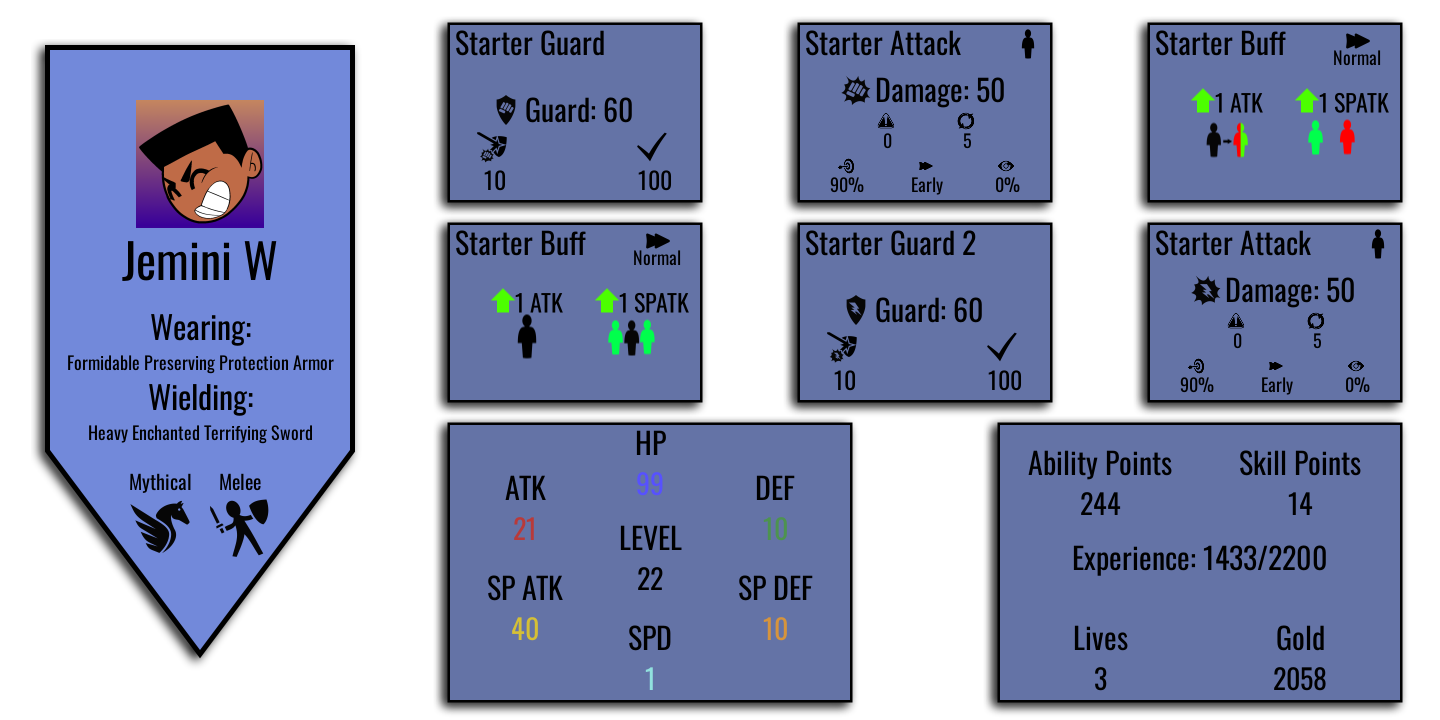
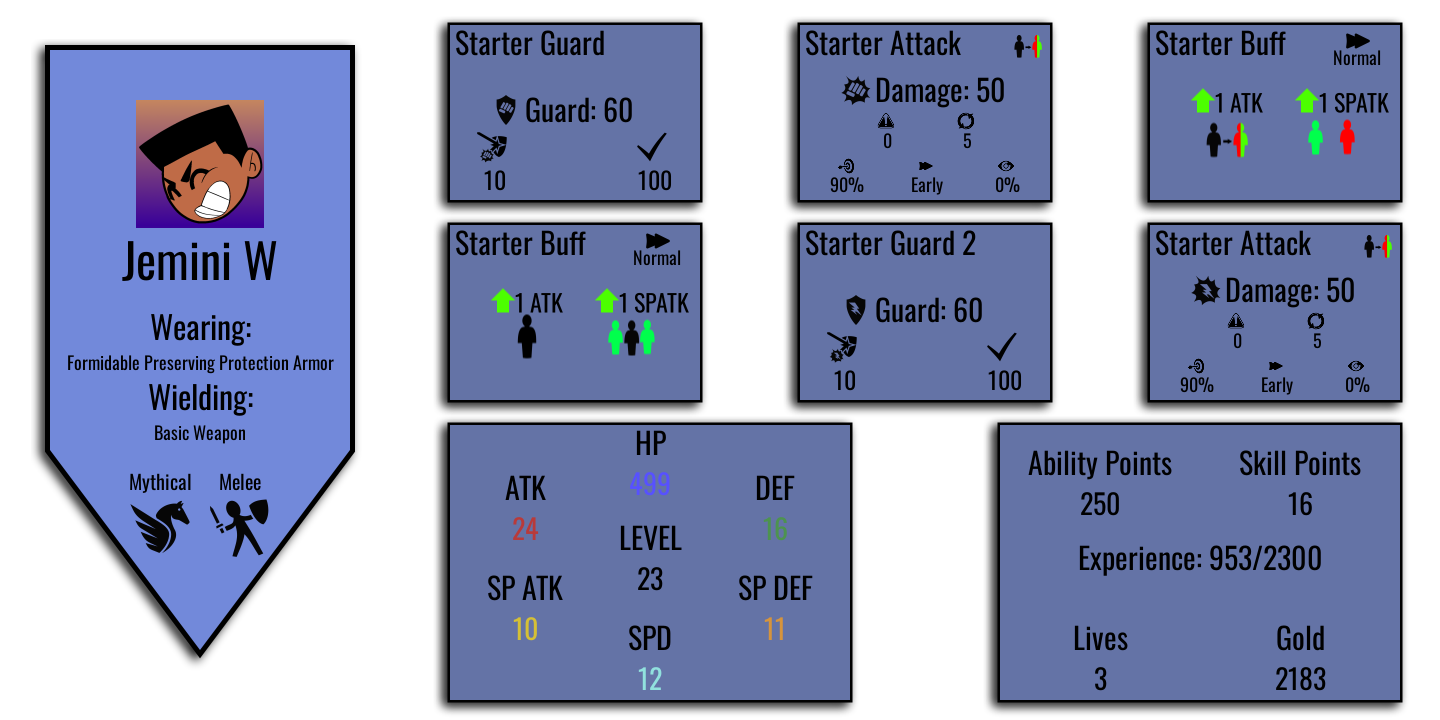
Fixed equipment stat bug for dungeons

diff --git a/profileCardCreator.js b/profileCardCreator.js
@@ -1,4 +1,5 @@
 const { createCanvas, registerFont, loadImage } = require('canvas')
+const { clone } = require('./tools.js')
 const data = {raceIndex, combatStyleIndex} = require('./data.json')
 registerFont('./fonts/Oswald-VariableFont_wght.ttf', { family: 'Oswald Light' })
 
@@ -359,37 +360,7 @@ function makeCard(player,avatar,callback){
         
         ctx.font = '30px "Oswald Light"'
         ctx.textAlign = "center"
-        
-        
-        if(player.inventory){
-            if(player.gear){
-                let fGear = player.inventory[player.gear]
-                for(s in fGear.stats){
-                    if(s == "hp"){
-                        player.stats[s] += fGear.stats[s] * 2
-                    } else {
-                        player.stats[s] += fGear.stats[s] 
-                    }
-                    if(player.stats[s] < 1){
-                        player.stats[s] = 1
-                    }
-                }
-            }
-            if(player.weapon){
-                let fWeapon = player.inventory[player.weapon]
-                for(s in fWeapon.stats){
-                    if(s == "hp"){
-                        player.stats[s] += fWeapon.stats[s] * 2
-                    } else {
-                        player.stats[s] += fWeapon.stats[s] 
-                    }
-                    if(player.stats[s] < 1){
-                        player.stats[s] = 1
-                    }
-                }
-            }
-        }
-
+    
         ctx.fillText("HP",650,455)
         ctx.fillText("ATK",525,500)
         ctx.fillText("SP ATK",525,600)
@@ -398,20 +369,50 @@ function makeCard(player,avatar,callback){
         ctx.fillText("SPD",650,650)
         ctx.fillText("LEVEL",650,550)
         
-        
+        let playerStats = clone(player.stats)
+
+        if(player.inventory){
+            if(player.gear != undefined){
+                let fGear = player.inventory[player.gear]
+                for(s in fGear.stats){
+                    if(s == "hp"){
+                        playerStats[s] += fGear.stats[s] * 2
+                    } else {
+                        playerStats[s] += fGear.stats[s] 
+                    }
+                    if(playerStats[s] < 1){
+                        playerStats[s] = 1
+                    }
+                }
+            }
+            if(player.weapon != undefined){
+                let fWeapon = player.inventory[player.weapon]
+                for(s in fWeapon.stats){
+                    if(s == "hp"){
+                        playerStats[s] += fWeapon.stats[s] * 2
+                    } else {
+                        playerStats[s] += fWeapon.stats[s] 
+                    }
+                    if(playerStats[s] < 1){
+                        playerStats[s] = 1
+                    }
+                }
+            }
+        }
+
         ctx.font = '28px "Oswald Light"'
         ctx.fillStyle = "#5751FF"
-        ctx.fillText(player.stats.hp,650,495)
+        ctx.fillText(playerStats.hp,650,495)
         ctx.fillStyle = "#B83A3A"
-        ctx.fillText(player.stats.atk,525,540)
+        ctx.fillText(playerStats.atk,525,540)
         ctx.fillStyle = "#D5C035"
-        ctx.fillText(player.stats.spatk,525,640)
+        ctx.fillText(playerStats.spatk,525,640)
         ctx.fillStyle = "#4D934F"
-        ctx.fillText(player.stats.def,775,540)
+        ctx.fillText(playerStats.def,775,540)
         ctx.fillStyle = "#D6943C"
-        ctx.fillText(player.stats.spdef,775,640)
+        ctx.fillText(playerStats.spdef,775,640)
         ctx.fillStyle = "#91E1DE"
-        ctx.fillText(player.stats.spd,650,690)
+        ctx.fillText(playerStats.spd,650,690)
         ctx.fillStyle = "#000000"
         ctx.fillText(player.level,650,590)
         

diff --git a/components/triggerDungeon.js b/components/triggerDungeon.js
@@ -60,7 +60,7 @@ module.exports = {
                 }
             }
 
-            if(session.session_data.player.gear){
+            if(session.session_data.player.gear != undefined){
                 let fGear = session.session_data.player.inventory[session.session_data.player.gear]
                 if(fGear.stats.hp){
                     newSession.session_data.rankStats.currentHP += fGear.stats.hp * 2
@@ -68,7 +68,7 @@ module.exports = {
                 }
             }
 
-            if(session.session_data.player.weapon){
+            if(session.session_data.player.weapon != undefined){
                 let fWeapon = session.session_data.player.inventory[session.session_data.player.weapon]
                 if(fWeapon.stats.hp){
                     newSession.session_data.rankStats.currentHP += fWeapon.stats.hp * 2
